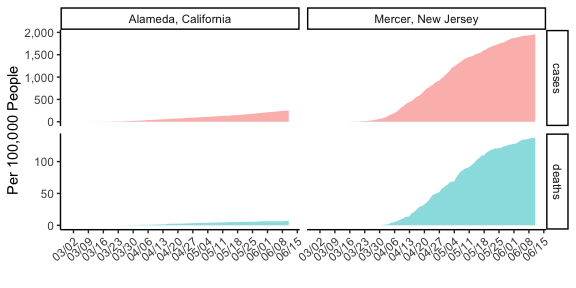
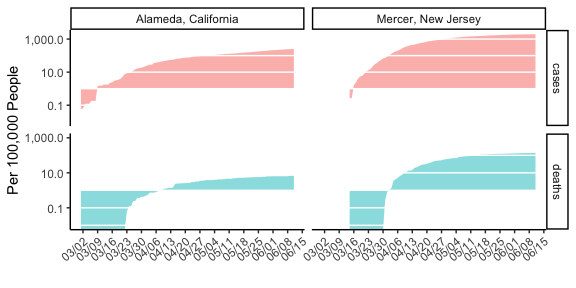
rerun

diff --git a/README.md b/README.md
@@ -1,7 +1,7 @@
 COVID-19 Data from NYT for Counties of Interest
 ================
 
-Updated: Sat Jun 13 09:47:32 2020
+Updated: Sat Jun 13 10:06:17 2020
 
 Get the Data
 ------------
@@ -26,12 +26,12 @@ df %>%
   pander::pandoc.table(caption = 'NYT COVID Tracking Data')
 ```
 
-<table style="width:96%;">
+<table style="width:90%;">
 <caption>NYT COVID Tracking Data</caption>
 <colgroup>
 <col width="18%" />
 <col width="20%" />
-<col width="23%" />
+<col width="18%" />
 <col width="11%" />
 <col width="11%" />
 <col width="11%" />
@@ -48,44 +48,44 @@ df %>%
 </thead>
 <tbody>
 <tr class="odd">
-<td align="center">2020-03-07</td>
-<td align="center">Spokane</td>
-<td align="center">Washington</td>
-<td align="center">53063</td>
-<td align="center">4</td>
+<td align="center">2020-04-17</td>
+<td align="center">Humboldt</td>
+<td align="center">California</td>
+<td align="center">06023</td>
+<td align="center">52</td>
 <td align="center">0</td>
 </tr>
 <tr class="even">
-<td align="center">2020-05-08</td>
-<td align="center">Harding</td>
-<td align="center">New Mexico</td>
-<td align="center">35021</td>
-<td align="center">1</td>
-<td align="center">0</td>
-</tr>
-<tr class="odd">
-<td align="center">2020-04-14</td>
-<td align="center">Androscoggin</td>
-<td align="center">Maine</td>
-<td align="center">23001</td>
-<td align="center">29</td>
-<td align="center">0</td>
-</tr>
-<tr class="even">
-<td align="center">2020-04-26</td>
-<td align="center">Chowan</td>
-<td align="center">North Carolina</td>
-<td align="center">37041</td>
-<td align="center">7</td>
-<td align="center">0</td>
-</tr>
-<tr class="odd">
 <td align="center">2020-06-03</td>
-<td align="center">Audubon</td>
-<td align="center">Iowa</td>
-<td align="center">19009</td>
-<td align="center">13</td>
+<td align="center">Bannock</td>
+<td align="center">Idaho</td>
+<td align="center">16005</td>
+<td align="center">37</td>
 <td align="center">1</td>
+</tr>
+<tr class="odd">
+<td align="center">2020-05-08</td>
+<td align="center">Pinellas</td>
+<td align="center">Florida</td>
+<td align="center">12103</td>
+<td align="center">828</td>
+<td align="center">59</td>
+</tr>
+<tr class="even">
+<td align="center">2020-05-12</td>
+<td align="center">Sevier</td>
+<td align="center">Tennessee</td>
+<td align="center">47155</td>
+<td align="center">65</td>
+<td align="center">2</td>
+</tr>
+<tr class="odd">
+<td align="center">2020-04-22</td>
+<td align="center">Presque Isle</td>
+<td align="center">Michigan</td>
+<td align="center">26141</td>
+<td align="center">6</td>
+<td align="center">0</td>
 </tr>
 </tbody>
 </table>
@@ -154,43 +154,43 @@ df %>%
 <tbody>
 <tr class="odd">
 <td align="center">Mercer, New Jersey</td>
-<td align="center">2020-04-06</td>
+<td align="center">2020-05-31</td>
 <td align="center">371398</td>
 <td align="center">cases</td>
-<td align="center">740</td>
-<td align="center">86</td>
+<td align="center">6933</td>
+<td align="center">83</td>
 </tr>
 <tr class="even">
 <td align="center">Alameda, California</td>
-<td align="center">2020-06-06</td>
+<td align="center">2020-05-17</td>
 <td align="center">1638215</td>
 <td align="center">deaths</td>
-<td align="center">104</td>
+<td align="center">85</td>
 <td align="center">0</td>
 </tr>
 <tr class="odd">
+<td align="center">Alameda, California</td>
+<td align="center">2020-04-18</td>
+<td align="center">1638215</td>
+<td align="center">deaths</td>
+<td align="center">41</td>
+<td align="center">1</td>
+</tr>
+<tr class="even">
 <td align="center">Mercer, New Jersey</td>
-<td align="center">2020-03-31</td>
+<td align="center">2020-04-14</td>
 <td align="center">371398</td>
 <td align="center">cases</td>
-<td align="center">268</td>
-<td align="center">19</td>
-</tr>
-<tr class="even">
-<td align="center">Alameda, California</td>
-<td align="center">2020-06-10</td>
-<td align="center">1638215</td>
-<td align="center">deaths</td>
-<td align="center">110</td>
-<td align="center">0</td>
+<td align="center">1731</td>
+<td align="center">85</td>
 </tr>
 <tr class="odd">
 <td align="center">Alameda, California</td>
-<td align="center">2020-05-25</td>
+<td align="center">2020-05-16</td>
 <td align="center">1638215</td>
-<td align="center">cases</td>
-<td align="center">2895</td>
-<td align="center">27</td>
+<td align="center">deaths</td>
+<td align="center">85</td>
+<td align="center">1</td>
 </tr>
 </tbody>
 </table>
@@ -207,11 +207,12 @@ ggplot(df, aes(x = date, y = number/population*1e5, fill = type)) +
   geom_area(alpha    = 0.5,
             position = 'identity',
             show.legend = FALSE) +
-  scale_y_continuous(name   = 'Per 100,000 People',
-                     labels = scales::comma) +
+  scale_y_log10(name   = 'Per 100,000 People',
+                labels = scales::comma) +
   scale_x_date(name        = '',
                date_breaks = '1 week',
                labels      = scales::date_format('%m/%d')) +
+  geom_hline(yintercept = 10^(-2:3), size = 0.5, color = 'white') +
   facet_grid(type~county, scales = 'free_y') +
   theme_classic() +
   theme(axis.text.x = element_text(angle = 40, hjust = 1))
@@ -223,11 +224,15 @@ This looks at the daily increase.
 
 ``` r
 ggplot(df, aes(x = date, y = new/population*1e5, color = type)) +
+  geom_hline(yintercept = 10^(-2:3), size = 0.1) +
   geom_step(show.legend = FALSE) +
   scale_x_date(name        = '',
                date_breaks = '1 week',
                labels      = scales::date_format('%m/%d')) +
-  scale_y_continuous(name   = 'Daily Cases Per 100,000 People') +
+  scale_y_log10(name   = 'Daily Cases Per 100,000 People', 
+                breaks = 10^(-2:3),
+                limits = c(0.01,1000),
+                labels = scales::comma) +
   facet_grid(type~county, scales = 'free_y') +
   theme_classic() +
   theme(axis.text.x = element_text(angle = 40, hjust = 1))
@@ -242,11 +247,15 @@ df %>%
   dplyr::group_by(lubridate::week(date), type, county, population) %>% 
   dplyr::summarize(new = sum(new), date = min(date)) %>%
   ggplot(aes(x = date, y = new/population*1e5, color = type)) +
+  geom_hline(yintercept = 10^(-2:3), size = 0.1) +
   geom_step(show.legend = FALSE) +
   scale_x_date(name        = '',
                date_breaks = '1 week',
                labels      = scales::date_format('%m/%d')) +
-  scale_y_continuous(name   = 'Weekly Cases Per 100,000 People') +
+  scale_y_log10(name   = 'Weekly Cases Per 100,000 People', 
+                breaks = 10^(-2:3),
+                limits = c(0.01,1000),
+                labels = scales::comma) +
   facet_grid(type~county, scales = 'free_y') +
   theme_classic() +
   theme(axis.text.x = element_text(angle = 40, hjust = 1))
